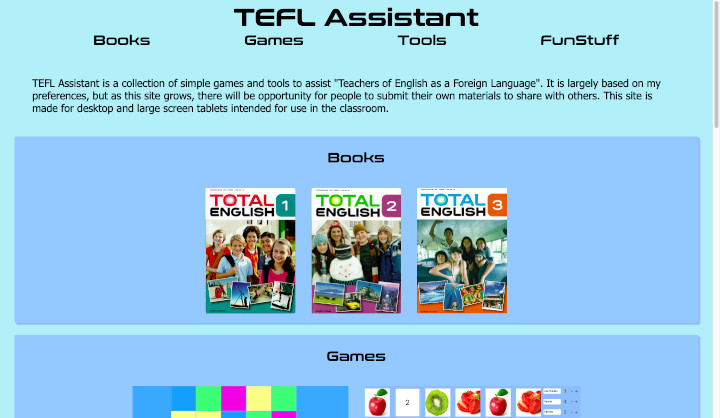
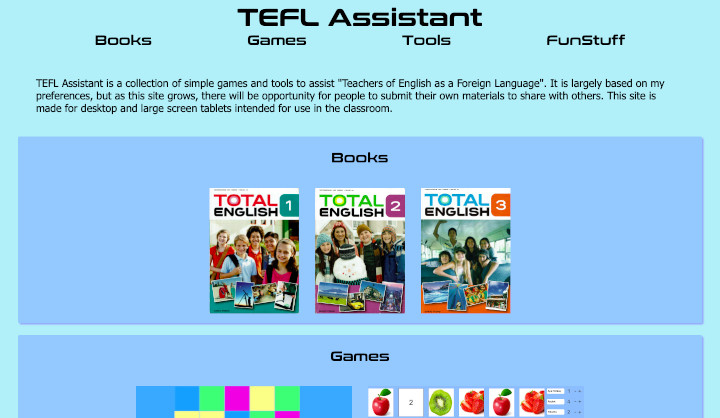
Made the scrollbar hidden on the website. Upadated the screenshot.

diff --git a/src/App.css b/src/App.css
@@ -10,6 +10,16 @@
   font-size: 16px;
   scroll-behavior: smooth;
   --soft-border: 6px;
+
+  /* Hide scrollbar for Chrome, Safari and Opera */
+}
+:root::-webkit-scrollbar {
+  display: none;
+}
+
+/* Hide scrollbar for IE and Edge */
+:root {
+  -ms-overflow-style: none;
 }
 
 @font-face {
